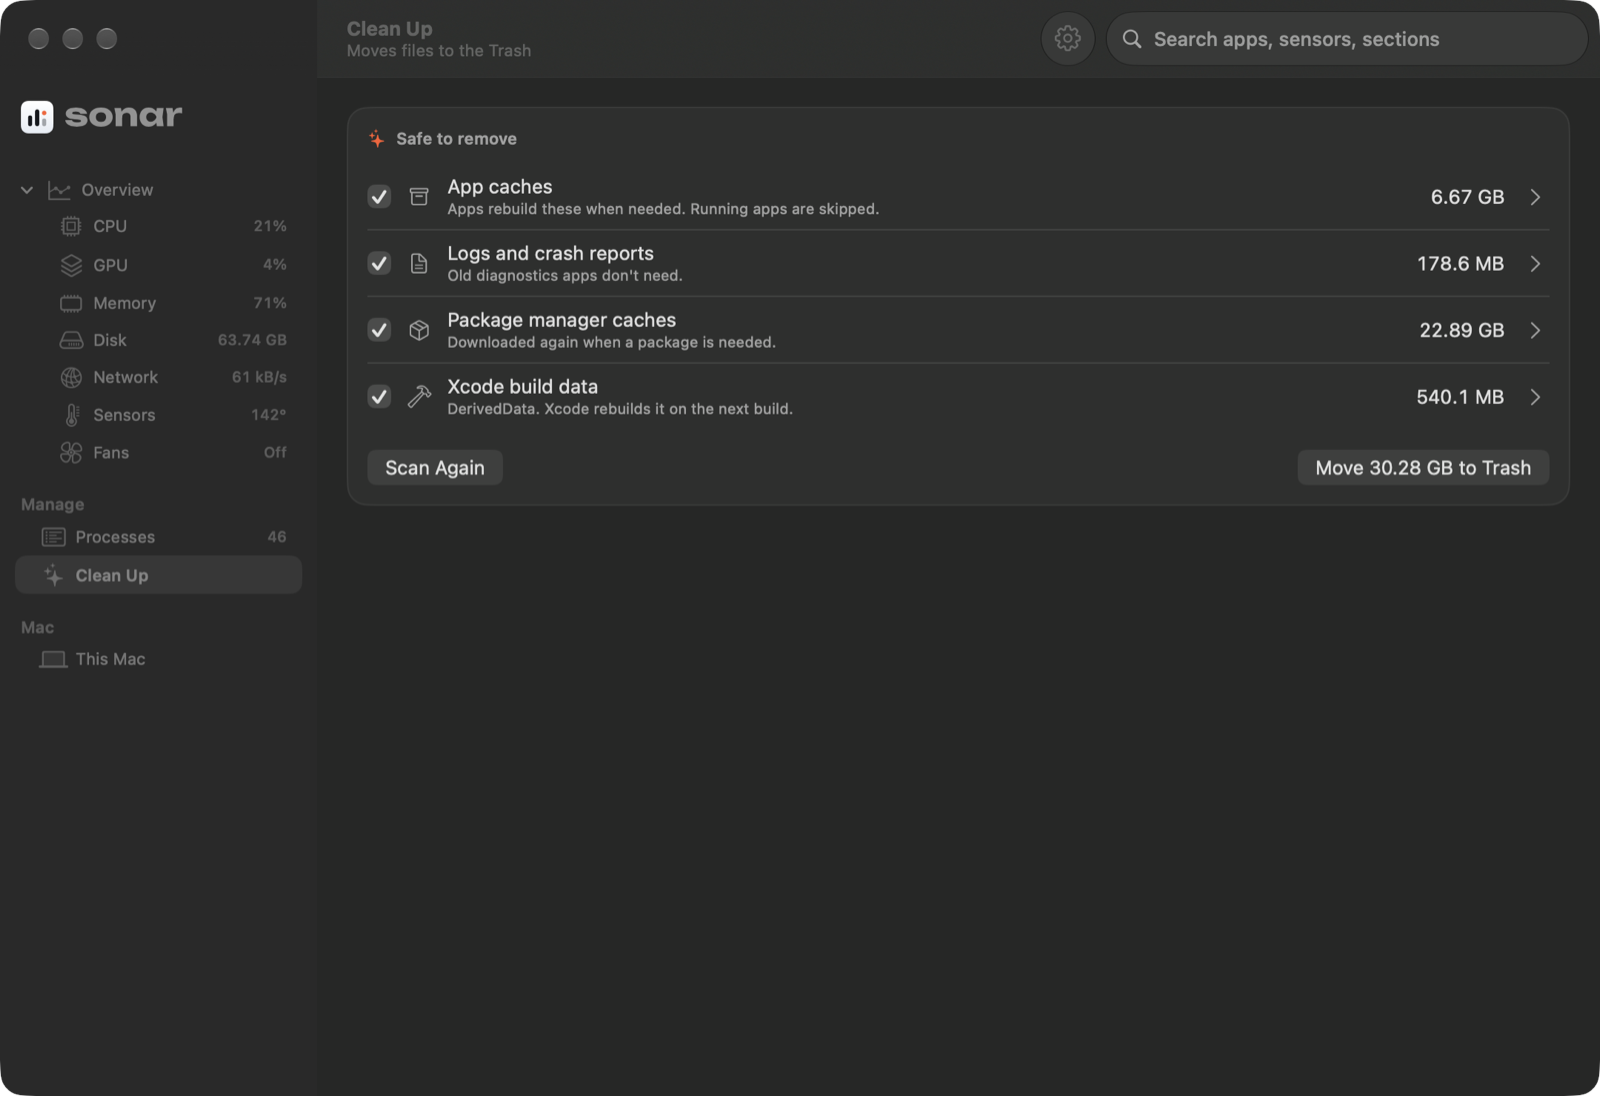
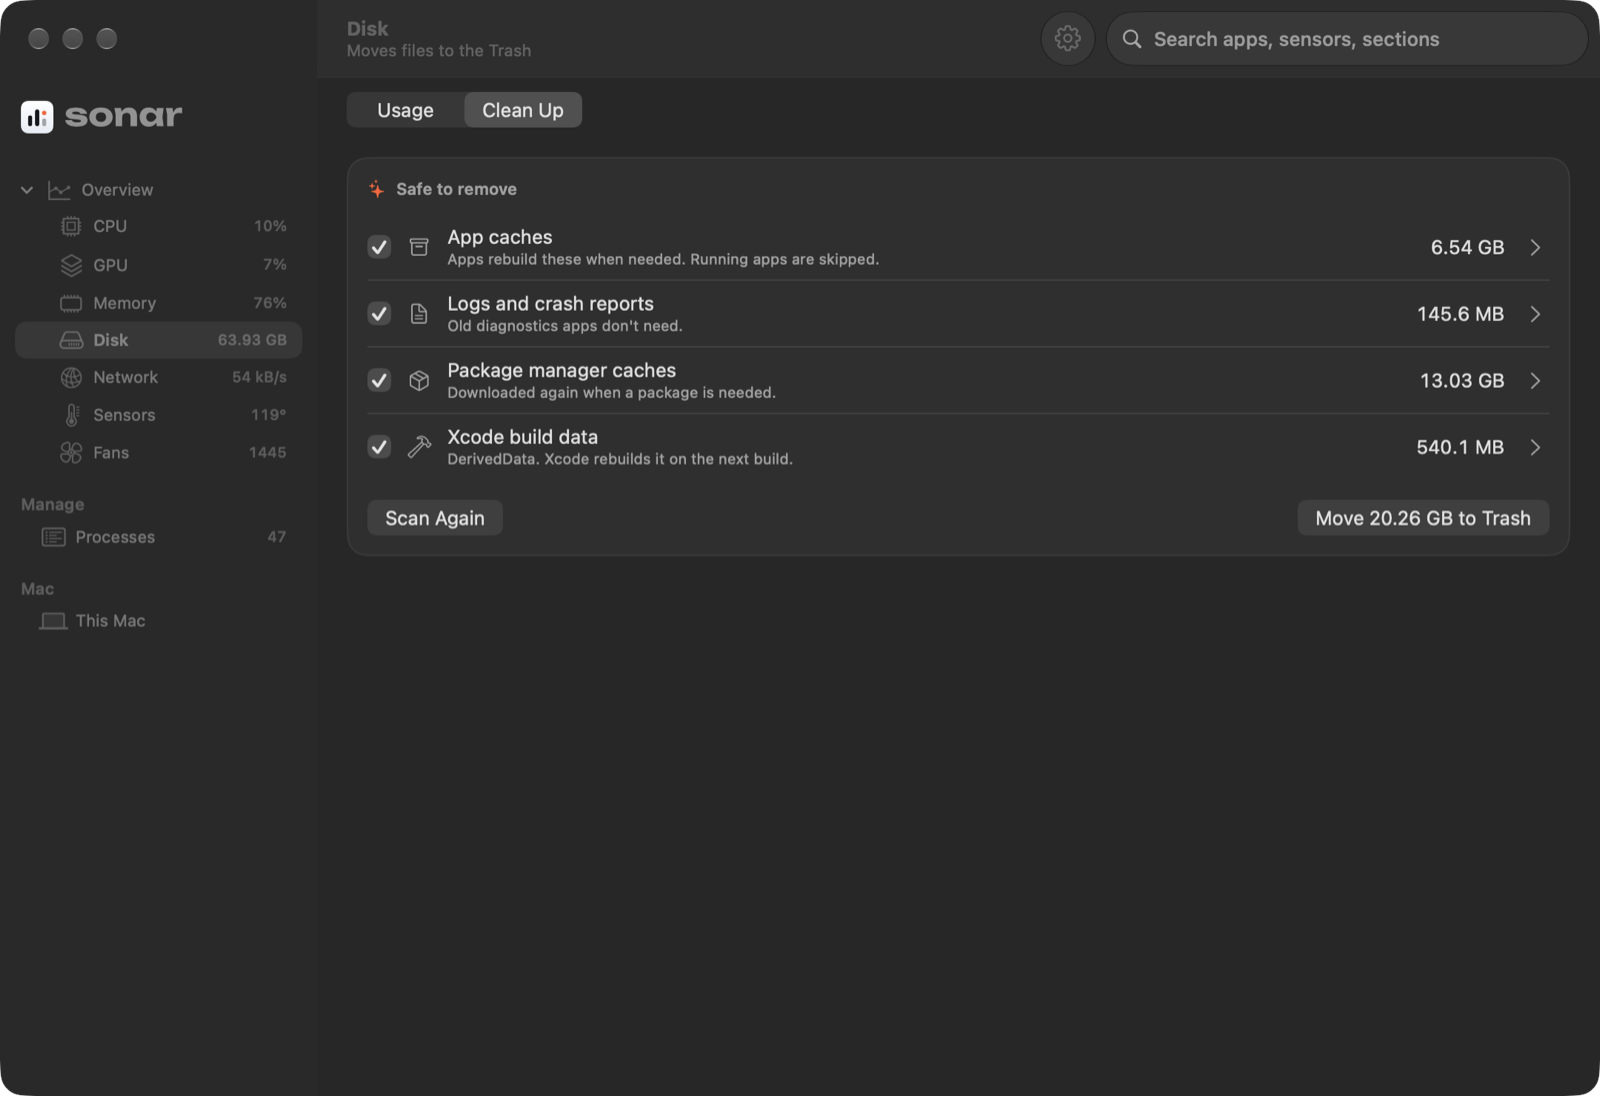
Move Clean Up into the Disk page and list only safe-to-remove items

diff --git a/Sources/Sonar/CleanUp.swift b/Sources/Sonar/CleanUp.swift
@@ -14,7 +14,6 @@ struct CleanCategory: Identifiable {
     let title: String
     let detail: String
     let symbol: String
-    var preselected = true
     var items: [CleanItem] = []
     var size: Int64 { items.reduce(0) { $0 + $1.size } }
 }
@@ -45,10 +44,9 @@ struct CleanCategory: Identifiable {
         phase = .scanning("")
         categories = []
         selection = []
-        let days = Prefs.int(Prefs.cleanDownloadsDays, default: 90)
         let running = NSWorkspace.shared.runningApplications.map { (id: $0.bundleIdentifier, name: $0.localizedName) }
         Task.detached(priority: .utility) {
-            for (title, find) in CleanScanner.categories(downloadsDays: days, running: running) {
+            for (title, find) in CleanScanner.categories(running: running) {
                 // Stop if the dashboard closed (reset) mid-scan.
                 guard await MainActor.run(body: { self.isScanning }) else { return }
                 await MainActor.run { self.phase = .scanning(title) }
@@ -66,7 +64,7 @@ struct CleanCategory: Identifiable {
     private func add(_ category: CleanCategory) {
         guard !category.items.isEmpty else { return }
         categories.append(category)
-        if category.preselected { selection.formUnion(category.items.map(\.url)) }
+        selection.formUnion(category.items.map(\.url))
     }
 
     func reset() {
@@ -133,7 +131,7 @@ enum CleanScanner {
     /// Not caches despite living in Caches: nothing downloads these again by itself.
     private static let keep = ["ms-playwright"]
 
-    static func categories(downloadsDays: Int, running: [(id: String?, name: String?)]) -> [(String, () -> CleanCategory)] {
+    static func categories(running: [(id: String?, name: String?)]) -> [(String, () -> CleanCategory)] {
         let packageNames = Set(packageCaches.map { ($0.1 as NSString).lastPathComponent })
         return [
             (
@@ -202,31 +200,6 @@ enum CleanScanner {
                         detail: "Xcode downloads them again when you connect a device.", symbol: "iphone", items: sizedItems)
                 }
             ),
-            (
-                "Xcode",
-                {
-                    CleanCategory(
-                        id: "archives", title: "Xcode archives", detail: "Keep any you need to read crash reports. Not preselected.",
-                        symbol: "archivebox.circle", preselected: false,
-                        items: sized(children(of: xcode.appending(path: "Archives"))))
-                }
-            ),
-            (
-                "Downloads",
-                {
-                    let cutoff = Date.now.addingTimeInterval(-Double(downloadsDays) * 86400)
-                    let keys: Set<URLResourceKey> = [.contentModificationDateKey, .contentAccessDateKey, .addedToDirectoryDateKey]
-                    let old = children(of: home.appending(path: "Downloads")).filter { url in
-                        guard let v = try? url.resourceValues(forKeys: keys) else { return false }
-                        let touched = [v.contentModificationDate, v.contentAccessDate, v.addedToDirectoryDate].compactMap { $0 }.max()
-                        return touched.map { $0 < cutoff } ?? false
-                    }
-                    return CleanCategory(
-                        id: "downloads", title: "Old downloads",
-                        detail: "Untouched for \(downloadsDays) days. Never preselected: tick what can go.", symbol: "arrow.down.circle",
-                        preselected: false, items: sized(old))
-                }
-            ),
         ]
     }
 
@@ -234,23 +207,32 @@ enum CleanScanner {
         (try? FileManager.default.contentsOfDirectory(at: dir, includingPropertiesForKeys: nil, options: .skipsHiddenFiles)) ?? []
     }
 
-    /// Items with their size on disk, largest first. Empty ones are dropped.
+    /// Items with their size on disk, largest first. Empty ones are dropped, and so is anything written to in the last
+    /// hour: something (an app, a command-line tool, a system service) is using it right now.
     private static func sized(_ urls: [URL]) -> [CleanItem] {
-        urls.map { CleanItem(url: $0, name: $0.lastPathComponent, size: allocatedSize($0)) }
-            .filter { $0.size > 0 }
-            .sorted { $0.size > $1.size }
+        let inUse = Date.now.addingTimeInterval(-3600)
+        return urls.compactMap { url in
+            let (size, lastWrite) = scan(url)
+            return size > 0 && lastWrite < inUse ? CleanItem(url: url, name: url.lastPathComponent, size: size) : nil
+        }
+        .sorted { $0.size > $1.size }
     }
 
-    static func allocatedSize(_ url: URL) -> Int64 {
-        let keys: [URLResourceKey] = [.totalFileAllocatedSizeKey, .isDirectoryKey]
-        guard let v = try? url.resourceValues(forKeys: Set(keys)) else { return 0 }
-        guard v.isDirectory == true else { return Int64(v.totalFileAllocatedSize ?? 0) }
-        var total: Int64 = 0
-        let files = FileManager.default.enumerator(at: url, includingPropertiesForKeys: keys, options: [], errorHandler: { _, _ in true })
+    /// Size on disk and the newest modification date of a file or everything inside a folder.
+    static func scan(_ url: URL) -> (size: Int64, lastWrite: Date) {
+        let keys: Set<URLResourceKey> = [.totalFileAllocatedSizeKey, .contentModificationDateKey, .isDirectoryKey]
+        guard let v = try? url.resourceValues(forKeys: keys) else { return (0, .distantPast) }
+        var size = Int64(v.totalFileAllocatedSize ?? 0)
+        var lastWrite = v.contentModificationDate ?? .distantPast
+        guard v.isDirectory == true else { return (size, lastWrite) }
+        let files = FileManager.default.enumerator(
+            at: url, includingPropertiesForKeys: Array(keys), options: [], errorHandler: { _, _ in true })
         while let file = files?.nextObject() as? URL {
-            total += Int64((try? file.resourceValues(forKeys: [.totalFileAllocatedSizeKey]))?.totalFileAllocatedSize ?? 0)
+            guard let f = try? file.resourceValues(forKeys: keys) else { continue }
+            size += Int64(f.totalFileAllocatedSize ?? 0)
+            if let date = f.contentModificationDate, date > lastWrite { lastWrite = date }
         }
-        return total
+        return (size, lastWrite)
     }
 }
 

diff --git a/Sources/Sonar/Dashboard.swift b/Sources/Sonar/Dashboard.swift
@@ -1,7 +1,7 @@
 import SwiftUI
 
 enum DashboardSection: String, CaseIterable, Identifiable, Hashable {
-    case overview, cpu, gpu, memory, disk, network, sensors, fans, apps, cleanUp, system
+    case overview, cpu, gpu, memory, disk, network, sensors, fans, apps, system
 
     static let metrics: [DashboardSection] = [.cpu, .gpu, .memory, .disk, .network, .sensors, .fans]
     var id: Self { self }
@@ -18,7 +18,6 @@ enum DashboardSection: String, CaseIterable, Identifiable, Hashable {
         case .sensors: "Sensors"
         case .fans: "Fans"
         case .apps: "Processes"
-        case .cleanUp: "Clean Up"
         case .system: "This Mac"
         }
     }
@@ -34,14 +33,13 @@ enum DashboardSection: String, CaseIterable, Identifiable, Hashable {
         case .sensors: "thermometer.medium"
         case .fans: "fan"
         case .apps: "list.bullet.rectangle"
-        case .cleanUp: "sparkles"
         case .system: "laptopcomputer"
         }
     }
 
     var tint: Color {
         switch self {
-        case .overview, .apps, .cleanUp, .system: .signal
+        case .overview, .apps, .system: .signal
         case .cpu: .blue
         case .gpu: .pink
         case .memory: .purple
@@ -60,6 +58,7 @@ enum DashboardSection: String, CaseIterable, Identifiable, Hashable {
         didSet { if let section { UserDefaults.standard.set(section.rawValue, forKey: Prefs.dashboardLastSection) } }
     }
     var query = ""
+    var diskCleanUp = false  // the Disk page's Clean Up tab; the toolbar hides the time range for it
 }
 
 /// Created on demand and torn down on close. A SwiftUI `Window` scene stays alive offscreen
@@ -97,6 +96,7 @@ enum DashboardSection: String, CaseIterable, Identifiable, Hashable {
                     (note.object as? NSWindow)?.contentViewController = nil
                     window = nil
                     DashboardNavigation.shared.query = ""
+                    DashboardNavigation.shared.diskCleanUp = false
                     Cleaner.shared.reset()
                     NSApp.setActivationPolicy(.accessory)
                     resignActiveIfNoWindows(closing: note.object as? NSWindow)
@@ -163,14 +163,14 @@ struct DashboardView: View {
 
     private var showsRange: Bool {
         guard nav.query.isEmpty, let s = nav.section else { return false }
-        return s != .apps && s != .cleanUp && s != .system && s != .sensors
+        return s != .apps && s != .system && s != .sensors && !(s == .disk && nav.diskCleanUp)
     }
 
     private var subtitle: String {
         guard nav.query.isEmpty || nav.section == .apps else { return "" }
         switch nav.section ?? .overview {
         case .system: return "About this Mac"
-        case .cleanUp: return "Moves files to the Trash"
+        case .disk where nav.diskCleanUp: return "Moves files to the Trash"
         case .apps: return monitor.processes.isEmpty ? "Running now" : "\(monitor.processes.count) running"
         case .sensors: return "\(monitor.sensors.count) sensors"
         default: return (TimeRange(rawValue: range) ?? .fifteenMinutes).long
@@ -190,10 +190,7 @@ struct DashboardView: View {
             } header: {
                 BrandLockup().padding(.top, 6).padding(.bottom, 26)
             }
-            Section("Manage") {
-                row(.apps).tag(DashboardSection.apps)
-                row(.cleanUp).tag(DashboardSection.cleanUp)
-            }
+            Section("Manage") { row(.apps).tag(DashboardSection.apps) }
             Section("Mac") { row(.system).tag(DashboardSection.system) }
         }
         .listStyle(.sidebar)
@@ -239,7 +236,6 @@ struct DashboardView: View {
             case .sensors: SensorsPage(sensors: monitor.sensors)
             case .fans: FansPage(monitor: monitor)
             case .apps: ProcessesPage(monitor: monitor, query: nav.query)
-            case .cleanUp: ScrollView { CleanUpCard().padding(20) }
             case .system: ThisMacPage(monitor: monitor)
             }
         }

diff --git a/Sources/Sonar/DashboardPages.swift b/Sources/Sonar/DashboardPages.swift
@@ -419,11 +419,33 @@ func keyValue(_ key: String, _ value: String, dot: Color? = nil) -> some View {
 
 struct DiskPage: View {
     let monitor: Monitor
+    @Bindable private var nav = DashboardNavigation.shared
 
     var body: some View {
+        VStack(spacing: 0) {
+            HStack {
+                Picker("Show", selection: $nav.diskCleanUp) {
+                    Text("Usage").tag(false)
+                    Text("Clean Up").tag(true)
+                }
+                .pickerStyle(.segmented)
+                .labelsHidden()
+                .fixedSize()
+                Spacer()
+            }
+            .padding(.horizontal, 20).padding(.top, 10)
+            if nav.diskCleanUp {
+                ScrollView { CleanUpCard().padding(20) }
+            } else {
+                usage
+            }
+        }
+    }
+
+    private var usage: some View {
         let m = monitor
         let used = m.diskTotal - m.diskFree
-        page {
+        return page {
             DashCard(title: "Macintosh HD", symbol: "internaldrive", tint: .orange, trailing: "startup disk") {
                 BigValue(value: Fmt.storage(m.diskFree), caption: "available")
                 UsageBar(fraction: m.diskTotal > 0 ? Double(used) / Double(m.diskTotal) : 0, color: .orange)

diff --git a/Sources/Sonar/SettingsWindow.swift b/Sources/Sonar/SettingsWindow.swift
@@ -257,7 +257,6 @@ private struct DashboardSettings: View {
     @AppStorage(Prefs.cpuTempSource) private var hottest = false
     @AppStorage(Prefs.confirmForce) private var confirmForce = true
     @AppStorage(Prefs.showSystemProcesses) private var showSystem = true
-    @AppStorage(Prefs.cleanDownloadsDays) private var downloadsDays = 90
 
     var body: some View {
         Form {
@@ -297,19 +296,9 @@ private struct DashboardSettings: View {
                 Text("macOS doesn't let Sonar read or end other users' processes, so they're listed with a lock.")
                     .foregroundStyle(.secondary)
             }
-            Section {
-                Picker("Old downloads are files untouched for", selection: $downloadsDays) {
-                    ForEach([30, 90, 180, 365], id: \.self) { Text("\($0) days").tag($0) }
-                }
-            } header: {
-                Text("Clean Up")
-            } footer: {
-                Text("Clean Up only moves files to the Trash, and never preselects downloads.")
-                    .foregroundStyle(.secondary)
-            }
         }
         .formStyle(.grouped)
-        .frame(height: 600)
+        .frame(height: 530)
     }
 }
 

diff --git a/Sources/Sonar/SonarApp.swift b/Sources/Sonar/SonarApp.swift
@@ -68,10 +68,12 @@ struct SonarApp: App {
     }
 
     /// Debug aid for README screenshots: `Sonar --open-dashboard disk` opens the dashboard behind every other window
-    /// without taking focus and prints its window number, for `screencapture -l <number>`.
+    /// without taking focus and prints its window number, for `screencapture -l <number>`. Add `--scan` to open Disk's
+    /// Clean Up tab and start a scan.
     private func openDashboardBehind(_ section: String) {
         Task { @MainActor in
             try? await Task.sleep(for: .seconds(1))
+            DashboardNavigation.shared.diskCleanUp = CommandLine.arguments.contains("--scan")  // Disk → Clean Up, scanning
             DashboardWindow.show(DashboardSection(rawValue: section) ?? .overview, activate: false)
             print("window", DashboardWindow.windowNumber ?? 0)
             fflush(stdout)

diff --git a/Sources/Sonar/Prefs.swift b/Sources/Sonar/Prefs.swift
@@ -34,9 +34,6 @@ enum Prefs {
     static let confirmForce = "confirmForceQuit"
     static let showSystemProcesses = "showSystemProcesses"
 
-    // Clean Up
-    static let cleanDownloadsDays = "cleanDownloadsDays"
-
     // Units
     static let temperatureUnit = TemperatureUnit.storageKey
     static let storageBinary = "storageBinary"

diff --git a/README.md b/README.md
@@ -27,7 +27,7 @@
 <p align="center">
   <img src="docs/processes.png" alt="Sonar's Processes page: All, Applications and Background tabs, a control bar with Quit, Force Quit, Show in Finder and Info, and a sortable process table" width="430" />
   &nbsp;
-  <img src="docs/cleanup.png" alt="Sonar's Clean Up page: app caches, logs, package manager caches and Xcode build data with their sizes, and a Move to Trash button" width="430" />
+  <img src="docs/cleanup.png" alt="Sonar's Disk page, Clean Up tab: app caches, logs, package manager caches and Xcode build data with their sizes, and a Move to Trash button" width="430" />
 </p>
 
 **your mac, at a glance.** a tiny, native menu bar monitor for Apple silicon.
@@ -42,7 +42,7 @@
 - **your menu bar, your way** — pick any mix of CPU %, temperatures, memory, network and fan speed, reorder them, show icons or values, and have them turn orange or red when something needs attention.
 - **full control** — a proper Settings window (⌘,) for the menu bar, panel, dashboard, units, a global keyboard shortcut, and appearance.
 - **a task manager that's pleasant to use** — every app and background process, sortable and searchable by name or PID. select one or several and use the control bar to quit, force quit, show in Finder or see details. apps show their real total with helpers included, and other users' and system processes are locked, so you can't end something your Mac needs.
-- **clean up** — finds app caches, logs, package manager caches (Homebrew, npm, Yarn, pip…), Xcode build data and old downloads, shows exactly how big each is, and moves what you pick to the Trash. nothing is deleted until you empty it, caches of running apps are skipped, old downloads are never preselected, and it only ever looks inside your home folder.
+- **clean up** — a tab on the Disk page that finds what's safe to remove: app caches, logs, package manager caches (Homebrew, npm, Yarn, pip…) and Xcode build data. it shows exactly how big each is and moves what you pick to the Trash, so nothing is gone until you empty it. it only lists things that rebuild themselves, skips anything a running app or tool used in the last hour, and only ever looks inside your home folder.
 - **light on your mac** — about 0.5% of one core when idle, no helper tools, no root, no telemetry. expensive readings only run while you're looking, and windows are torn down when you close them.
 - **100% Swift** — SwiftUI, AppKit and Swift Charts, no dependencies.
 

diff --git a/CHANGELOG.md b/CHANGELOG.md
@@ -11,12 +11,11 @@ See [docs/RELEASING.md](docs/RELEASING.md) for how versions are chosen and shipp
 ## [1.5.0] - 2026-10-01
 
 ### Added
-- Clean Up in the dashboard sidebar: finds app caches, logs and crash reports, package manager caches (Homebrew,
-  npm, Yarn, pip, CocoaPods, Go, Bun, pnpm), Xcode build data, device support files, Xcode archives and old
-  downloads, with the size of each and every item inside. What you pick moves to the Trash, so nothing is gone
-  until you empty it. Caches of running apps and Apple's own caches are skipped, archives and old downloads are
-  never preselected, and only your home folder is scanned, only when you click Scan.
-- Settings → Dashboard → Clean Up: how old a download must be to count as old (30, 90, 180 or 365 days).
+- Clean Up, a tab on the Disk page: finds app caches, logs and crash reports, package manager caches (Homebrew,
+  npm, Yarn, pip, CocoaPods, Go, Bun, pnpm), Xcode build data and device support files, with the size of each and
+  every item inside. What you pick moves to the Trash, so nothing is gone until you empty it. It only lists things
+  that are rebuilt or downloaded again automatically, and skips caches of running apps, Apple's own caches, and
+  anything written to in the last hour. It scans only your home folder, and only when you click Scan.
 
 ## [1.4.1] - 2026-09-30
 

diff --git a/AGENTS.md b/AGENTS.md
@@ -14,7 +14,7 @@ Read [CONTRIBUTING.md](CONTRIBUTING.md) first. It applies to you too.
 | `Sources/Sonar/DashboardPages.swift` | Overview and the metric pages |
 | `Sources/Sonar/HistoryChart.swift` | Time-range charts and min/avg/max |
 | `Sources/Sonar/ProcessesPage.swift` | Processes page: table, control bar, Quit/End actions |
-| `Sources/Sonar/CleanUp.swift` | Clean Up page: finds reclaimable space and moves picks to the Trash |
+| `Sources/Sonar/CleanUp.swift` | Disk page's Clean Up tab: finds safe-to-remove files and moves picks to the Trash |
 | `Sources/Sonar/ThisMac.swift` | This Mac page and the hardware/battery/network facts behind it |
 | `Sources/Sonar/SettingsWindow.swift` | Settings window and its tabs |
 | `Sources/Sonar/Prefs.swift` | Every setting's key and default, plus unit-aware formatting |
